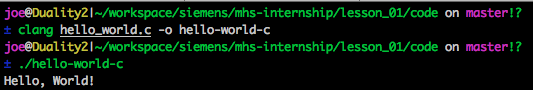
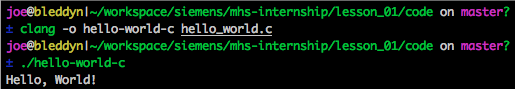
Clean up C example code

diff --git a/lesson_01/code/hello_world.c b/lesson_01/code/hello_world.c
@@ -1,9 +1,10 @@
 // Compile with either:
-//   clang hello_world.c -o hello-world-c
+//   clang -o hello-world-c hello_world.c
 //        or
-//   gcc hello_world.c -o hello-world-c
+//   gcc -o hello-world-c hello_world.c
 #include <stdio.h>
 
 int main() {
   printf("Hello, World!\n");
+  return 0;
 }
